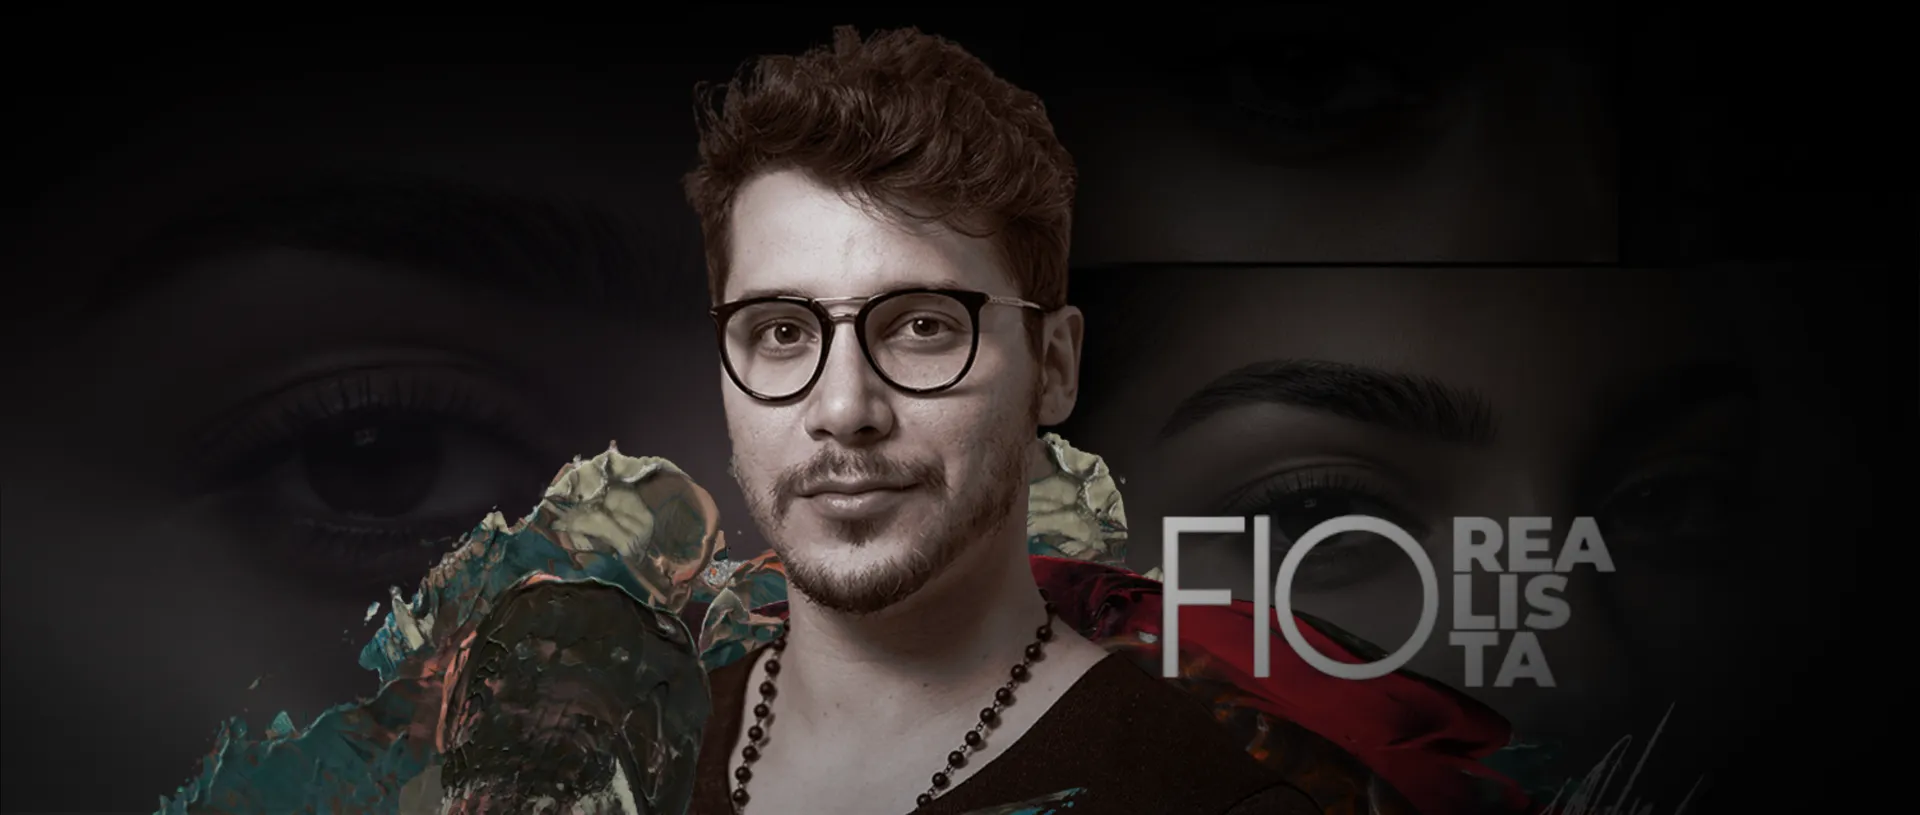
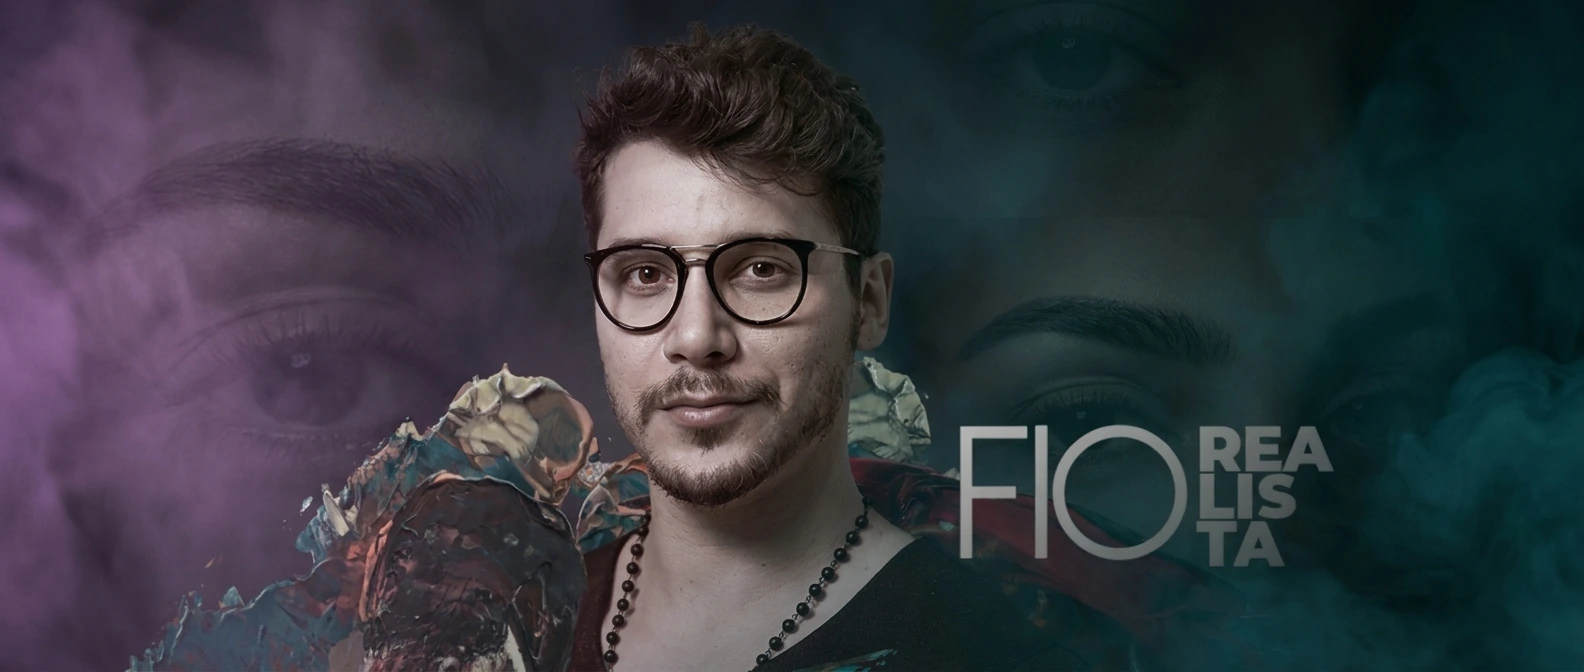
feat(fio-a-fio-realista): hero mobile full-bleed
No mobile a imagem deixa de ser uma foto emoldurada com glow roxo e passa a
ocupar a largura toda, com crop no rosto do James e mascara que derrete a
base no fundo. O texto sobe por cima dessa transicao.

- hero.webp em qualidade melhor (47KB -> 103KB), cache bustado pra v4
- desktop nao muda

diff --git a/lp-html/fio-a-fio-realista-by-james-olaya.html b/lp-html/fio-a-fio-realista-by-james-olaya.html
@@ -215,14 +215,15 @@ j=d.createElement(s),dl=l!='dataLayer'?'&l='+l:'';j.async=true;j.src=
 .ffr-hero__cta:hover{transform:translateY(-2px);box-shadow:0 14px 40px rgba(34,197,94,.5);}
 /* MOBILE: imagem emoldurada com glow roxo + texto/CTA embaixo */
 @media(max-width:760px){
-  .ffr-hero{display:block;box-sizing:border-box;overflow:visible;background:linear-gradient(180deg,#070509 0%,#140f1e 55%,#070509 100%);padding:clamp(40px,8vw,66px) 20px clamp(46px,9vw,72px);text-align:center;}
+  /* MOBILE full-bleed: imagem grande de ponta a ponta (crop no James), texto abaixo */
+  .ffr-hero{display:block;box-sizing:border-box;overflow:hidden;background:linear-gradient(180deg,#0a0713 0%,#140f1e 60%,#0a0713 100%);padding:0 0 clamp(44px,9vw,68px);text-align:center;}
   .ffr-hero *{box-sizing:border-box;}
-  .ffr-hero__img{position:relative;display:block;width:100%;height:auto;border-radius:16px;border:1.5px solid rgba(192,132,252,.45);box-shadow:0 20px 48px rgba(0,0,0,.6),0 0 34px rgba(168,85,247,.28);}
+  .ffr-hero__img{position:relative;display:block;width:100%;height:64vh;min-height:380px;max-height:600px;object-fit:cover;object-position:47% center;border:0;border-radius:0;box-shadow:none;-webkit-mask-image:linear-gradient(180deg,#000 72%,transparent 99%);mask-image:linear-gradient(180deg,#000 72%,transparent 99%);}
   .ffr-hero__ov{display:none;}
-  .ffr-hero__content{position:static;display:block;margin-top:clamp(24px,6vw,38px);}
+  .ffr-hero__content{position:static;display:block;margin-top:clamp(-56px,-11vw,-30px);padding:0 20px;}
   .ffr-hero__inner{max-width:none;padding:0;}
   .ffr-hero__col{max-width:none;}
-  .ffr-hero h1{font-size:clamp(25px,7vw,40px);text-shadow:none;max-width:15ch;margin-left:auto;margin-right:auto;overflow-wrap:break-word;}
+  .ffr-hero h1{font-size:clamp(26px,7.4vw,42px);text-shadow:0 2px 18px rgba(0,0,0,.6);max-width:15ch;margin-left:auto;margin-right:auto;overflow-wrap:break-word;}
   .ffr-hero__sub{margin-top:0;}
   .ffr-hero__hl{font-size:clamp(22px,6.2vw,38px);overflow-wrap:break-word;}
   .ffr-hero__cta{max-width:100%;}
@@ -230,7 +231,7 @@ j=d.createElement(s),dl=l!='dataLayer'?'&l='+l:'';j.async=true;j.src=
 }
 </style>
 <section class="ffr-hero">
-  <img class="ffr-hero__img" src="/lp/fio-a-fio-realista/hero.webp?v=3" alt="Fio a Fio Realista por James Olaya">
+  <img class="ffr-hero__img" src="/lp/fio-a-fio-realista/hero.webp?v=4" alt="Fio a Fio Realista por James Olaya">
   <div class="ffr-hero__ov" style="background:radial-gradient(125% 125% at 50% 48%, rgba(10,8,16,0) 44%, rgba(46,28,64,0.5) 76%, rgba(13,9,19,0.9) 100%);"></div>
   <div class="ffr-hero__ov" style="background:linear-gradient(90deg, rgba(10,7,16,0.92) 0%, rgba(10,7,16,0.55) 30%, rgba(10,7,16,0) 56%);"></div>
   <div class="ffr-hero__content">
